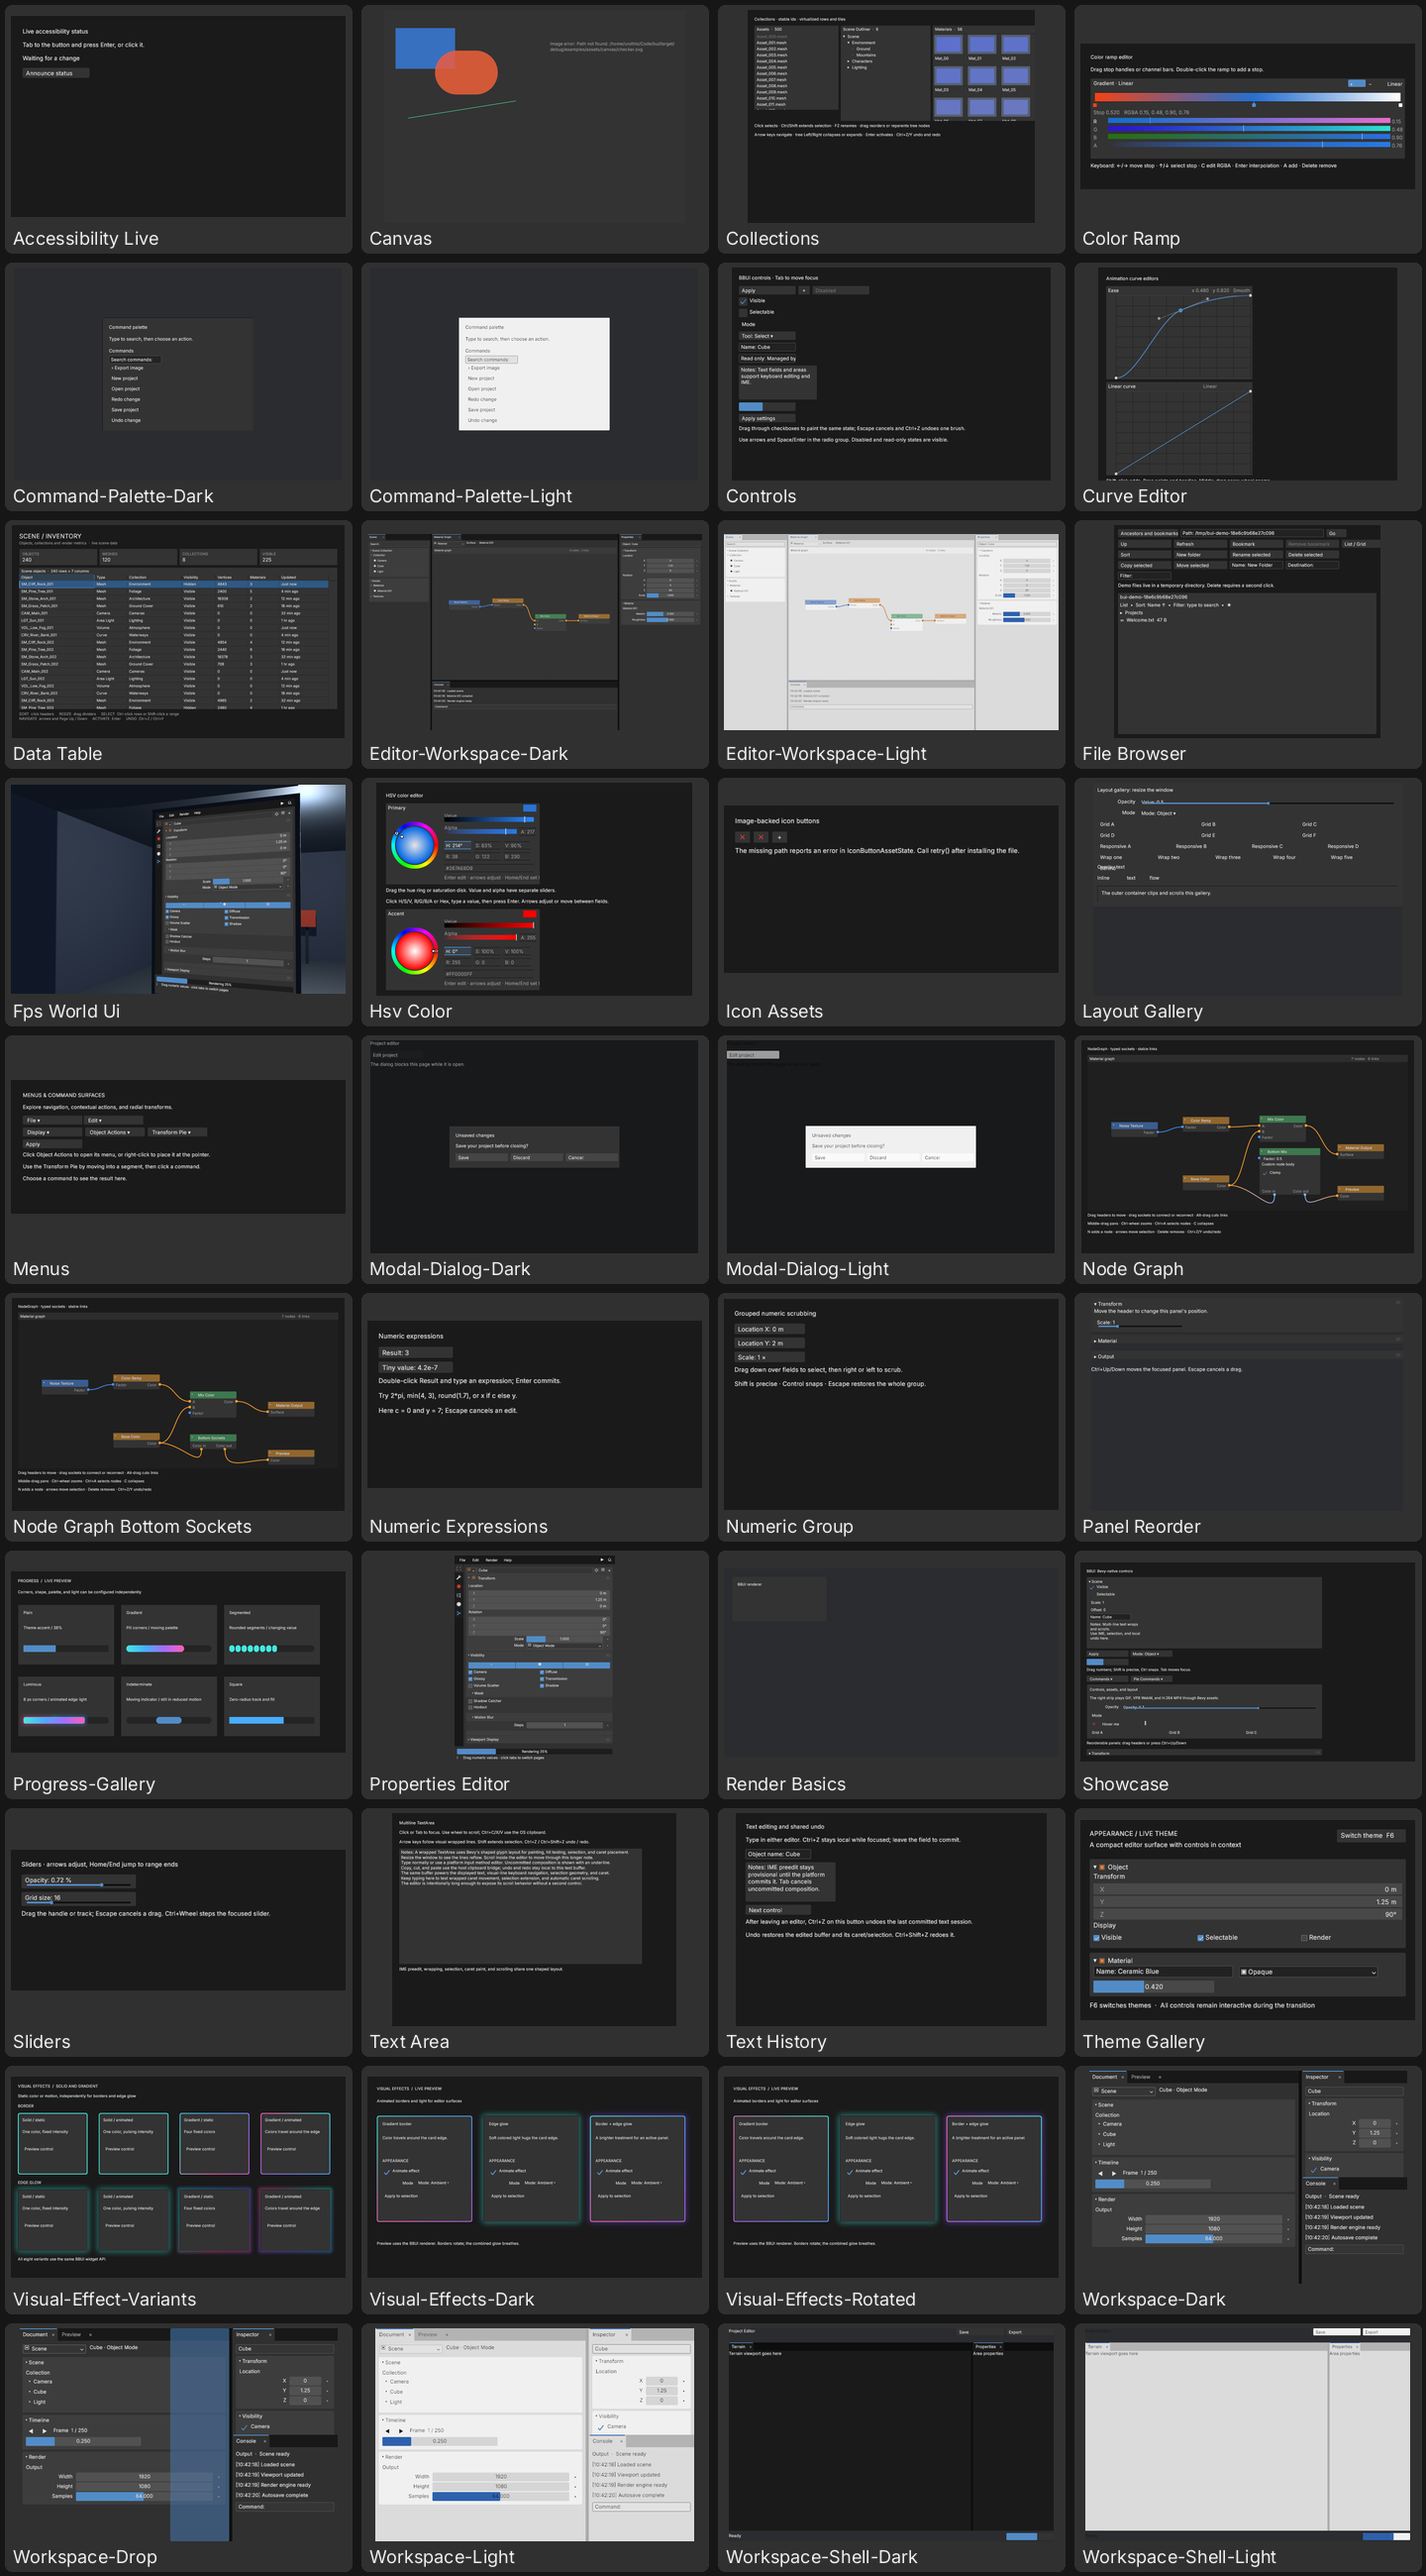
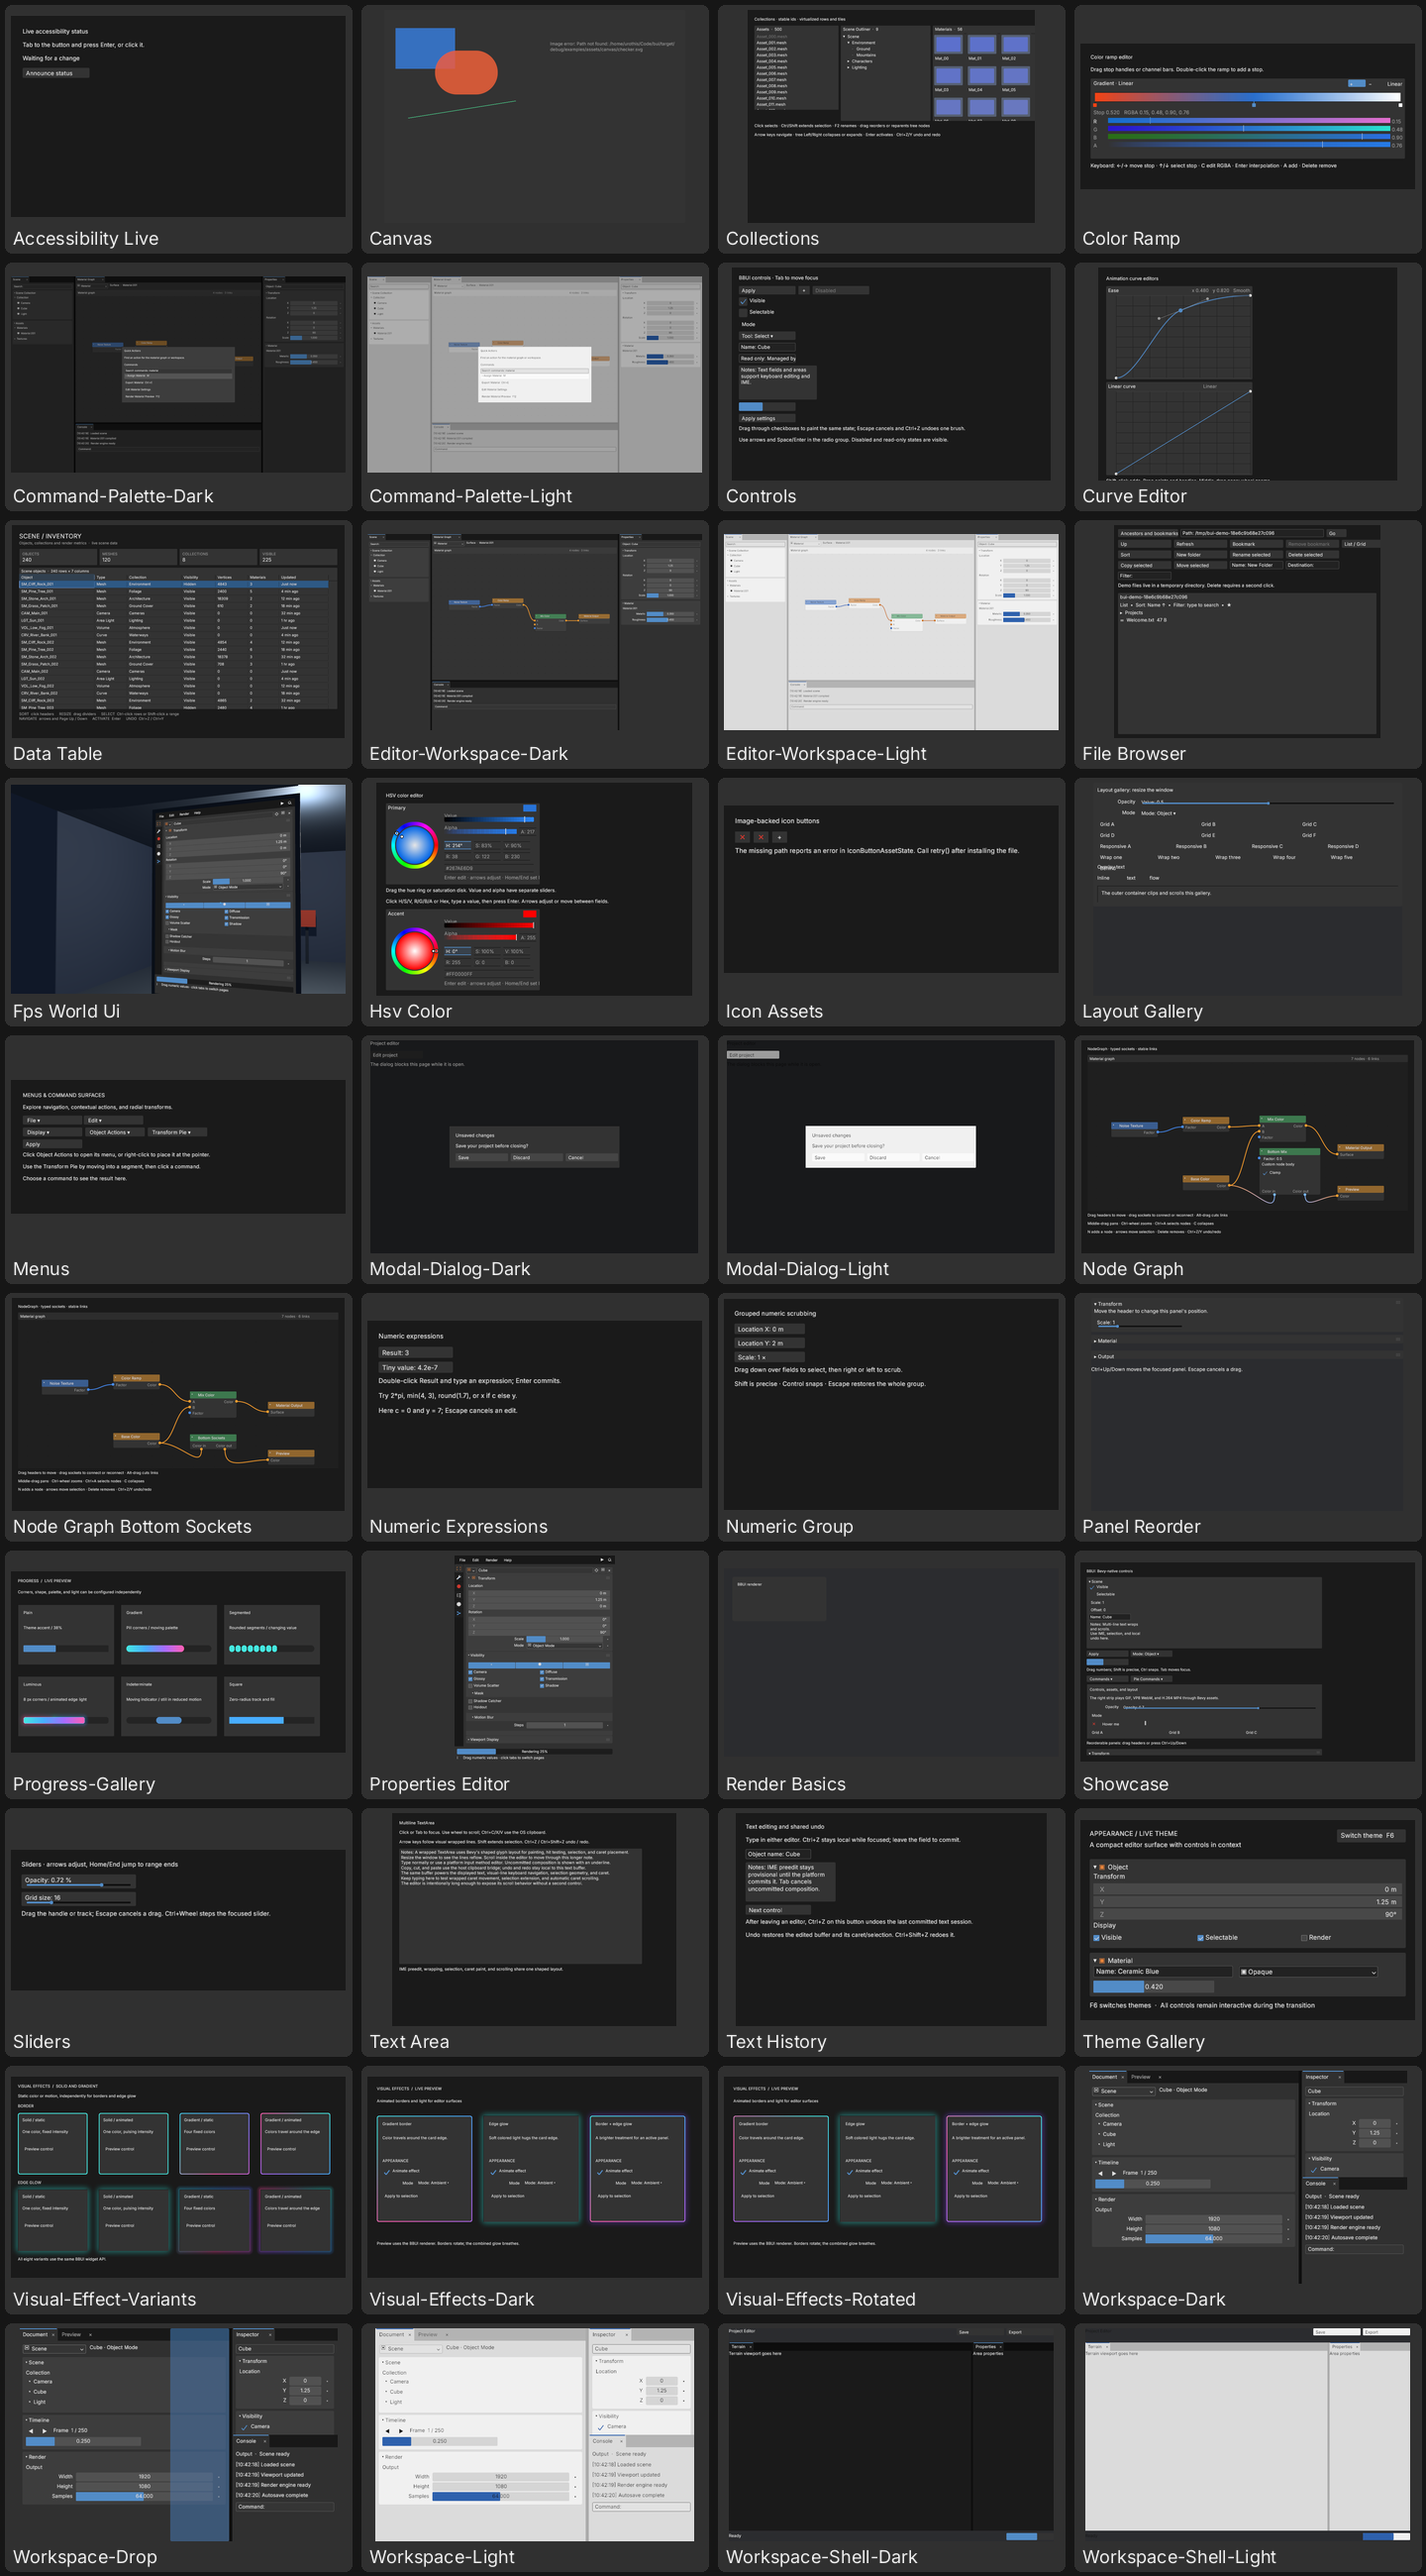
Show command palette within docked editor example

Changed region(s): [[0.25, 0.0935, 0.5, 0.1869], [0.0625, 0.1246, 0.125, 0.1869], [0.1562, 0.1558, 0.1875, 0.1869]]

diff --git a/crates/bbui/examples/command_palette.rs b/crates/bbui/examples/command_palette.rs
@@ -1,14 +1,17 @@
-//! Search and activate application commands with BBUI widgets.
+//! Search application commands over BBUI's composed editor workspace.
 //! Run with `cargo run -p bbui --example command_palette`.
 
 use bbui::prelude::*;
 use bbui::widgets::{Command, CommandPalette, CommandRegistry, WidgetEventQueue};
+use bbui_style::{Rgba, ThemeColorToken};
 use bevy::prelude::*;
 use bevy::window::PrimaryWindow;
 
 #[cfg(test)]
 #[path = "command_palette/capture.rs"]
 mod capture;
+#[path = "editor_workspace/content.rs"]
+mod editor_content;
 
 #[derive(Resource)]
 struct ExampleState {
@@ -17,24 +20,87 @@ struct ExampleState {
     root: Entity,
 }
 
-fn page(palette: &CommandPalette, registry: &CommandRegistry) -> WidgetTree {
+fn foreground(mut node: WidgetNode) -> WidgetNode {
+    node.style
+        .get_or_insert_with(UiInlineStyle::default)
+        .set(UiStyleProperty::ZIndex, UiStyleValue::Integer(10_004));
+    node.children = node.children.into_iter().map(foreground).collect();
+    node
+}
+
+fn palette_page(palette: &CommandPalette, registry: &CommandRegistry) -> WidgetTree {
+    let mut backdrop = UiInlineStyle::default();
+    backdrop.set(
+        UiStyleProperty::Background,
+        UiStyleValue::Color(Rgba(0.0, 0.0, 0.0, 0.52)),
+    );
+    backdrop.set(UiStyleProperty::ZIndex, UiStyleValue::Integer(10_000));
+    let mut card = UiInlineStyle::default();
+    card.set_color_token(UiStyleProperty::Background, ThemeColorToken::Surface);
+    card.set_color_token(UiStyleProperty::BorderColor, ThemeColorToken::Border);
+    card.set(UiStyleProperty::BorderWidth, UiStyleValue::Scalar(1.0));
+    card.set(UiStyleProperty::ZIndex, UiStyleValue::Integer(10_002));
     let mut layout = UiLayoutNode::column(0.0);
     layout.align_items = UiAlign::Center;
     layout.justify_content = UiJustify::Center;
+    layout.z_index = 10_000;
     WidgetTree::new(
         WidgetNode::column([WidgetNode::column([
-            WidgetNode::label("Command palette").with_role("modal-title"),
-            WidgetNode::label("Type to search, then choose an action."),
-            palette.view(registry),
+            foreground(WidgetNode::label("Quick Actions").with_role("modal-title")),
+            foreground(WidgetNode::label(
+                "Find an action for the material graph or workspace.",
+            )),
+            foreground(palette.view(registry)),
         ])
-        .with_width(UiLength::Px(460.0))
-        .with_gap(12.0)
+        .with_key("command-palette:card")
+        .with_width(UiLength::Px(520.0))
+        .with_gap(10.0)
         .with_padding(UiEdges::all(20.0))
+        .with_style(card)
         .with_role("box")])
+        .with_key("command-palette:backdrop")
+        .with_role("box")
         .with_layout(layout)
+        .with_style(backdrop)
         .with_width(UiLength::Fill(1.0))
         .with_height(UiLength::Fill(1.0)),
     )
+}
+
+fn install_editor(world: &mut World) {
+    editor_content::configure_theme(&mut world.resource_mut::<Theme>());
+    let layout = WorkspaceLayout::new(DockNode::Split {
+        id: "editor-columns".into(),
+        axis: SplitAxis::Horizontal,
+        shares: vec![19.0, 56.0, 25.0],
+        children: vec![
+            DockNode::Tabs(TabGroup::new("scene-group", vec!["scene".into()])),
+            DockNode::Split {
+                id: "editor-center".into(),
+                axis: SplitAxis::Vertical,
+                shares: vec![3.0, 1.0],
+                children: vec![
+                    DockNode::Tabs(TabGroup::new("graph-group", vec!["graph".into()])),
+                    DockNode::Tabs(TabGroup::new("console-group", vec!["console".into()])),
+                ],
+            },
+            DockNode::Tabs(TabGroup::new("properties-group", vec!["properties".into()])),
+        ],
+    });
+    let Ok(mut workspace) = Workspace::new(layout) else {
+        return;
+    };
+    for (id, title) in [
+        ("scene", "Scene"),
+        ("graph", "Material Graph"),
+        ("properties", "Properties"),
+        ("console", "Console"),
+    ] {
+        workspace.register_pane(id, title, move |world, parent| {
+            editor_content::mount(world, parent, id)
+        });
+    }
+    world.insert_resource(workspace);
 }
 
 fn install_palette(world: &mut World) {
@@ -49,23 +115,32 @@ fn install_palette(world: &mut World) {
         return;
     };
     let mut registry = CommandRegistry::default();
-    for (id, label, category) in [
-        ("new", "New project", "File"),
-        ("open", "Open project", "File"),
-        ("save", "Save project", "File"),
-        ("export", "Export image", "File"),
-        ("undo", "Undo change", "Edit"),
-        ("redo", "Redo change", "Edit"),
+    for (id, label, category, hint) in [
+        ("add-noise", "Add Noise Texture", "Nodes", "Shift+A"),
+        ("add-ramp", "Add Color Ramp", "Nodes", "Shift+R"),
+        ("frame-nodes", "Frame Selected Nodes", "View", "Home"),
+        ("assign-material", "Assign Material", "Material", "M"),
+        (
+            "material-settings",
+            "Edit Material Settings",
+            "Material",
+            "",
+        ),
+        ("save", "Save Workspace", "File", "Ctrl+S"),
+        ("export", "Export Material", "File", "Ctrl+E"),
+        ("render", "Render Material Preview", "Render", "F12"),
     ] {
         let mut command = Command::new(id, label);
         command.category = category.into();
+        command.shortcut_hint = Some(hint.into());
         if let Err(error) = registry.register(command) {
             error!("Command registration failed: {error:?}");
         }
     }
     let mut palette = CommandPalette::default();
     palette.show();
-    let Ok(root) = page(&palette, &registry).spawn(world, None) else {
+    palette.query = "material".into();
+    let Ok(root) = palette_page(&palette, &registry).spawn(world, None) else {
         return;
     };
     world.entity_mut(root).insert(UiLayoutRoot::new(
@@ -82,6 +157,13 @@ fn install_palette(world: &mut World) {
 
 fn setup(world: &mut World) {
     world.spawn(Camera2d);
+    install_editor(world);
+}
+
+fn mount_palette(world: &mut World) {
+    if world.contains_resource::<ExampleState>() {
+        return;
+    }
     install_palette(world);
 }
 
@@ -104,7 +186,8 @@ fn process(world: &mut World) {
         }
     }
     if changed
-        && let Err(error) = page(&state.palette, &state.registry).reconcile(world, state.root)
+        && let Err(error) =
+            palette_page(&state.palette, &state.registry).reconcile(world, state.root)
     {
         error!("Palette update failed: {error:?}");
     }
@@ -116,6 +199,6 @@ fn main() {
         .add_plugins(DefaultPlugins)
         .add_plugins(BbuiPlugin)
         .add_systems(Startup, setup)
-        .add_systems(PostUpdate, process)
+        .add_systems(PostUpdate, (mount_palette, process).chain())
         .run();
 }

diff --git a/crates/bbui_widgets/src/commands.rs b/crates/bbui_widgets/src/commands.rs
@@ -2,6 +2,8 @@
 
 use bbui_core::search::MenuSearch;
 use bbui_core::{UiKey, UiKeyCode, UiModifiers};
+use bbui_layout::UiLength;
+use bbui_style::{ThemeColorToken, UiInlineStyle, UiStyleProperty};
 use bevy_ecs::world::World;
 
 use crate::{MenuEntry, WidgetEvent, WidgetNode};
@@ -186,7 +188,8 @@ impl CommandPalette {
         WidgetNode::column([
             WidgetNode::label("Commands").with_key("command-palette:title"),
             WidgetNode::text_field("Search commands", &self.query)
-                .with_key("command-palette:query"),
+                .with_key("command-palette:query")
+                .with_width(UiLength::Fill(1.0)),
             WidgetNode::column(results.into_iter().enumerate().map(|(index, command)| {
                 let label = match &command.shortcut_hint {
                     Some(hint) => format!("{}  {}", command.label, hint),
@@ -197,11 +200,25 @@ impl CommandPalette {
                 } else {
                     label
                 };
-                WidgetNode::button(label).with_key(format!("command-palette:action:{}", command.id))
+                let button = WidgetNode::button(label)
+                    .with_key(format!("command-palette:action:{}", command.id))
+                    .with_width(UiLength::Fill(1.0));
+                if index == self.selected {
+                    let mut style = UiInlineStyle::default();
+                    style.set_color_token(
+                        UiStyleProperty::Background,
+                        ThemeColorToken::HoverSurface,
+                    );
+                    button.with_style(style)
+                } else {
+                    button
+                }
             }))
-            .with_key("command-palette:results"),
+            .with_key("command-palette:results")
+            .with_width(UiLength::Fill(1.0)),
         ])
         .with_key("command-palette:root")
+        .with_width(UiLength::Fill(1.0))
         .with_role("command-palette")
     }
 

diff --git a/crates/bbui/examples/command_palette/capture.rs b/crates/bbui/examples/command_palette/capture.rs
@@ -22,8 +22,8 @@ use std::{
     time::{Duration, Instant},
 };
 
-const WIDTH: u32 = 1000;
-const HEIGHT: u32 = 650;
+const WIDTH: u32 = 1536;
+const HEIGHT: u32 = 900;
 
 #[derive(Resource, Default)]
 struct Frames(HashMap<usize, Vec<u8>>);
@@ -113,12 +113,17 @@ fn capture_command_palette_dark_and_light() {
         },
         PrimaryWindow,
     ));
+    install_editor(app.world_mut());
+    for _ in 0..3 {
+        app.update();
+    }
     install_palette(app.world_mut());
     let output =
         std::path::PathBuf::from(env!("CARGO_MANIFEST_DIR")).join("../../docs/visuals/examples");
     std::fs::create_dir_all(&output).expect("create gallery directory");
     for (index, kind) in [ThemeKind::Dark, ThemeKind::Light].into_iter().enumerate() {
         *app.world_mut().resource_mut::<Theme>() = Theme::new(kind);
+        editor_content::configure_theme(&mut app.world_mut().resource_mut::<Theme>());
         for _ in 0..5 {
             app.update();
         }
